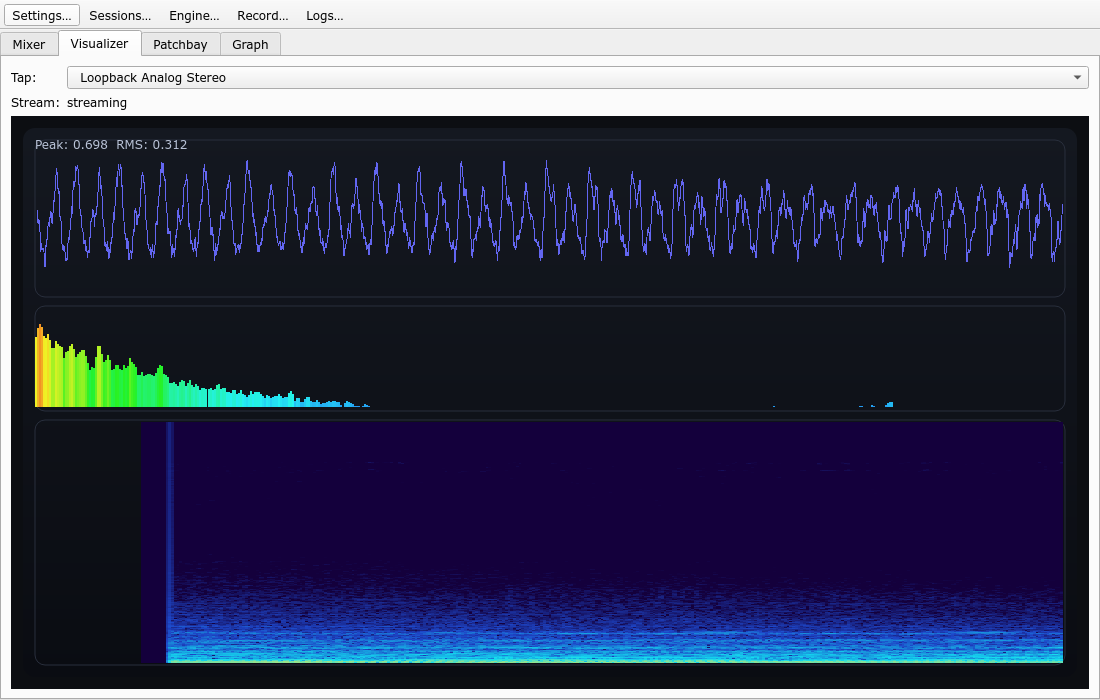
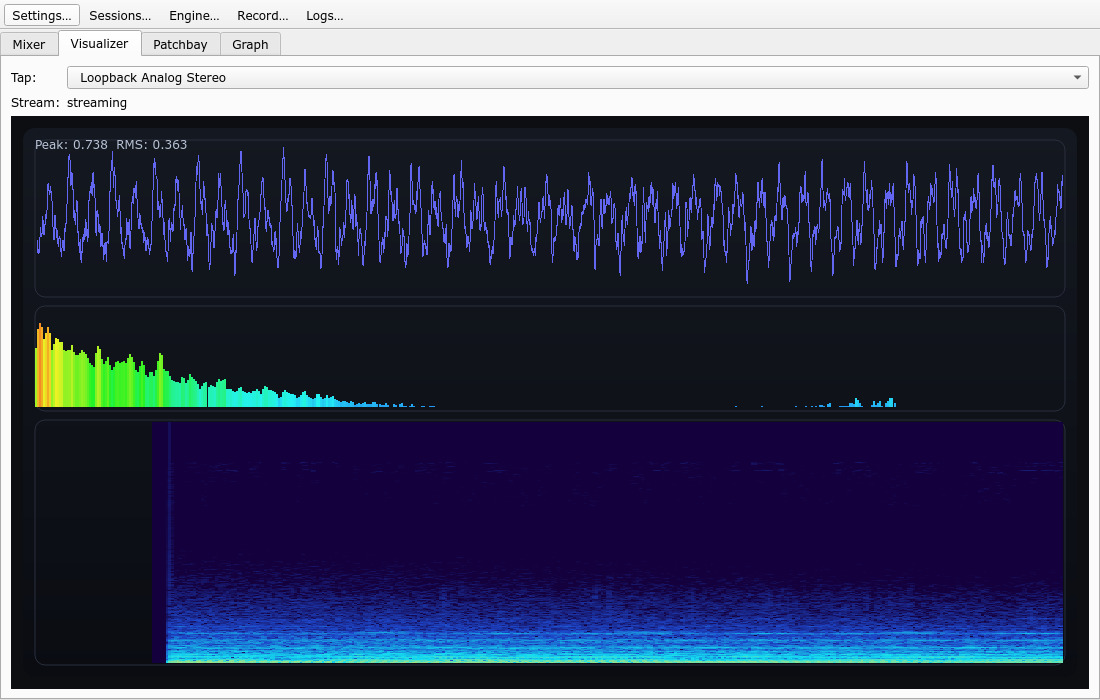
Wait for EQ node before Patchbay screenshot

Changed region(s): [[0.0309, 0.48, 0.9891, 0.96], [0.0309, 0.24, 0.9891, 0.39], [0.7727, 0.57, 0.8036, 0.6]]

diff --git a/src/main.cpp b/src/main.cpp
@@ -1,13 +1,18 @@
 #include <QApplication>
 #include <QCommandLineParser>
+#include <QElapsedTimer>
 #include <QIcon>
 #include <QImage>
 #include <QPainter>
+#include <QRegularExpression>
 #include <QTimer>
+
+#include <memory>
 
 #include <pipewire/pipewire.h>
 
 #include "MainWindow.h"
+#include "backend/PipeWireGraph.h"
 #include "backend/EqConfig.h"
 #include "backend/LogStore.h"
 #include "ui/EngineDialog.h"
@@ -49,6 +54,14 @@ int main(int argc, char** argv)
                                          QStringLiteral("Select what to screenshot: main|settings|eq|engine|logs"),
                                          QStringLiteral("name"),
                                          QStringLiteral("main"));
+  QCommandLineOption screenshotWaitNodeOpt(
+      QStringList{QStringLiteral("screenshot-wait-node")},
+      QStringLiteral("Wait for a PipeWire node whose name/description matches REGEX (only affects --screenshot-window=main)"),
+      QStringLiteral("regex"));
+  QCommandLineOption screenshotWaitTimeoutOpt(QStringList{QStringLiteral("screenshot-wait-timeout-ms")},
+                                              QStringLiteral("Max time to wait for --screenshot-wait-node before taking the screenshot (ms)"),
+                                              QStringLiteral("ms"),
+                                              QStringLiteral("9000"));
   QCommandLineOption screenshotDelayOpt(QStringList{QStringLiteral("screenshot-delay-ms")},
                                         QStringLiteral("Delay before taking screenshot (ms)"),
                                         QStringLiteral("ms"),
@@ -58,6 +71,8 @@ int main(int argc, char** argv)
   parser.addOption(tapCaptureSinkOpt);
   parser.addOption(screenshotOpt);
   parser.addOption(screenshotWindowOpt);
+  parser.addOption(screenshotWaitNodeOpt);
+  parser.addOption(screenshotWaitTimeoutOpt);
   parser.addOption(screenshotDelayOpt);
   parser.process(app);
 
@@ -87,6 +102,7 @@ int main(int argc, char** argv)
       QWidget* target = &window;
 
       const QString which = parser.value(screenshotWindowOpt).trimmed().toLower();
+      const bool allowGraphWait = which == QStringLiteral("main");
       if (which == QStringLiteral("settings")) {
         auto* dlg = new SettingsDialog(window.graph(), &window);
         dlg->show();
@@ -107,7 +123,14 @@ int main(int argc, char** argv)
         target = dlg;
       }
 
-      QTimer::singleShot(d, target, [&app, target, path]() {
+      struct ScreenshotState final {
+        bool scheduled = false;
+        QMetaObject::Connection graphConn;
+      };
+      auto state = std::make_shared<ScreenshotState>();
+
+      auto takeScreenshot = [state, &app, target, path]() {
+        (void)state;
         const qreal dpr = target->devicePixelRatioF();
         const QSize size = target->size() * dpr;
 
@@ -121,7 +144,58 @@ int main(int argc, char** argv)
 
         image.save(path);
         app.quit();
-      });
+      };
+
+      auto scheduleAfterDelay = [state, d, target, takeScreenshot]() {
+        if (state->scheduled) {
+          return;
+        }
+        state->scheduled = true;
+        if (state->graphConn) {
+          QObject::disconnect(state->graphConn);
+          state->graphConn = {};
+        }
+        QTimer::singleShot(d, target, takeScreenshot);
+      };
+
+      const QString waitReStr = parser.value(screenshotWaitNodeOpt).trimmed();
+      if (allowGraphWait && !waitReStr.isEmpty() && window.graph()) {
+        QRegularExpression waitRe(waitReStr);
+        const bool valid = waitRe.isValid();
+
+        PipeWireGraph* graph = window.graph();
+        auto graphHasMatch = [graph, valid, waitRe]() -> bool {
+          if (!valid || !graph) {
+            return false;
+          }
+          const QList<PwNodeInfo> nodes = graph->nodes();
+          for (const auto& n : nodes) {
+            if (waitRe.match(n.name).hasMatch() || waitRe.match(n.description).hasMatch()) {
+              return true;
+            }
+          }
+          return false;
+        };
+
+        if (valid && graphHasMatch()) {
+          scheduleAfterDelay();
+        } else {
+          state->graphConn = QObject::connect(graph, &PipeWireGraph::graphChanged, target, [graphHasMatch, scheduleAfterDelay]() {
+            if (graphHasMatch()) {
+              scheduleAfterDelay();
+            }
+          });
+
+          bool okTimeout = false;
+          const int timeoutMs = parser.value(screenshotWaitTimeoutOpt).toInt(&okTimeout);
+          const int tmo = okTimeout ? std::max(0, timeoutMs) : 9000;
+          if (tmo > 0) {
+            QTimer::singleShot(tmo, target, scheduleAfterDelay);
+          }
+        }
+      } else {
+        scheduleAfterDelay();
+      }
     }
 
     ret = app.exec();

diff --git a/src/ui/PatchbayPage.cpp b/src/ui/PatchbayPage.cpp
@@ -104,6 +104,21 @@ QString formatPoint(const QPointF& p)
   return QStringLiteral("%1,%2").arg(qRound(p.x())).arg(qRound(p.y()));
 }
 
+bool isRedundantChannelLabel(const QString& label, const QString& ch)
+{
+  if (label.trimmed().isEmpty() || ch.trimmed().isEmpty()) {
+    return true;
+  }
+
+  const QString l = label.trimmed().toLower();
+  const QString c = ch.trimmed().toLower();
+  if (l == c) {
+    return true;
+  }
+
+  return l.endsWith(QStringLiteral("_%1").arg(c)) || l.endsWith(QStringLiteral("-%1").arg(c)) || l.endsWith(QStringLiteral(" %1").arg(c));
+}
+
 PortKind portKindFor(const PwPortInfo& p, const PwNodeInfo& node)
 {
   const QString mt = p.mediaType.trimmed().toLower();
@@ -1516,9 +1531,7 @@ void PatchbayPage::rebuild()
       QString label = displayBase;
       if (!pinfo.audioChannel.isEmpty()) {
         const QString ch = pinfo.audioChannel.trimmed();
-        const bool redundant = ch.compare(displayBase, Qt::CaseInsensitive) == 0 ||
-            (!basePw.isEmpty() && ch.compare(basePw, Qt::CaseInsensitive) == 0) ||
-            (!pinfo.alias.isEmpty() && ch.compare(pinfo.alias, Qt::CaseInsensitive) == 0);
+        const bool redundant = isRedundantChannelLabel(displayBase, ch) || isRedundantChannelLabel(basePw, ch) || isRedundantChannelLabel(pinfo.alias, ch);
         if (!ch.isEmpty() && !redundant) {
           label = QStringLiteral("%1 (%2)").arg(displayBase, ch);
         }
